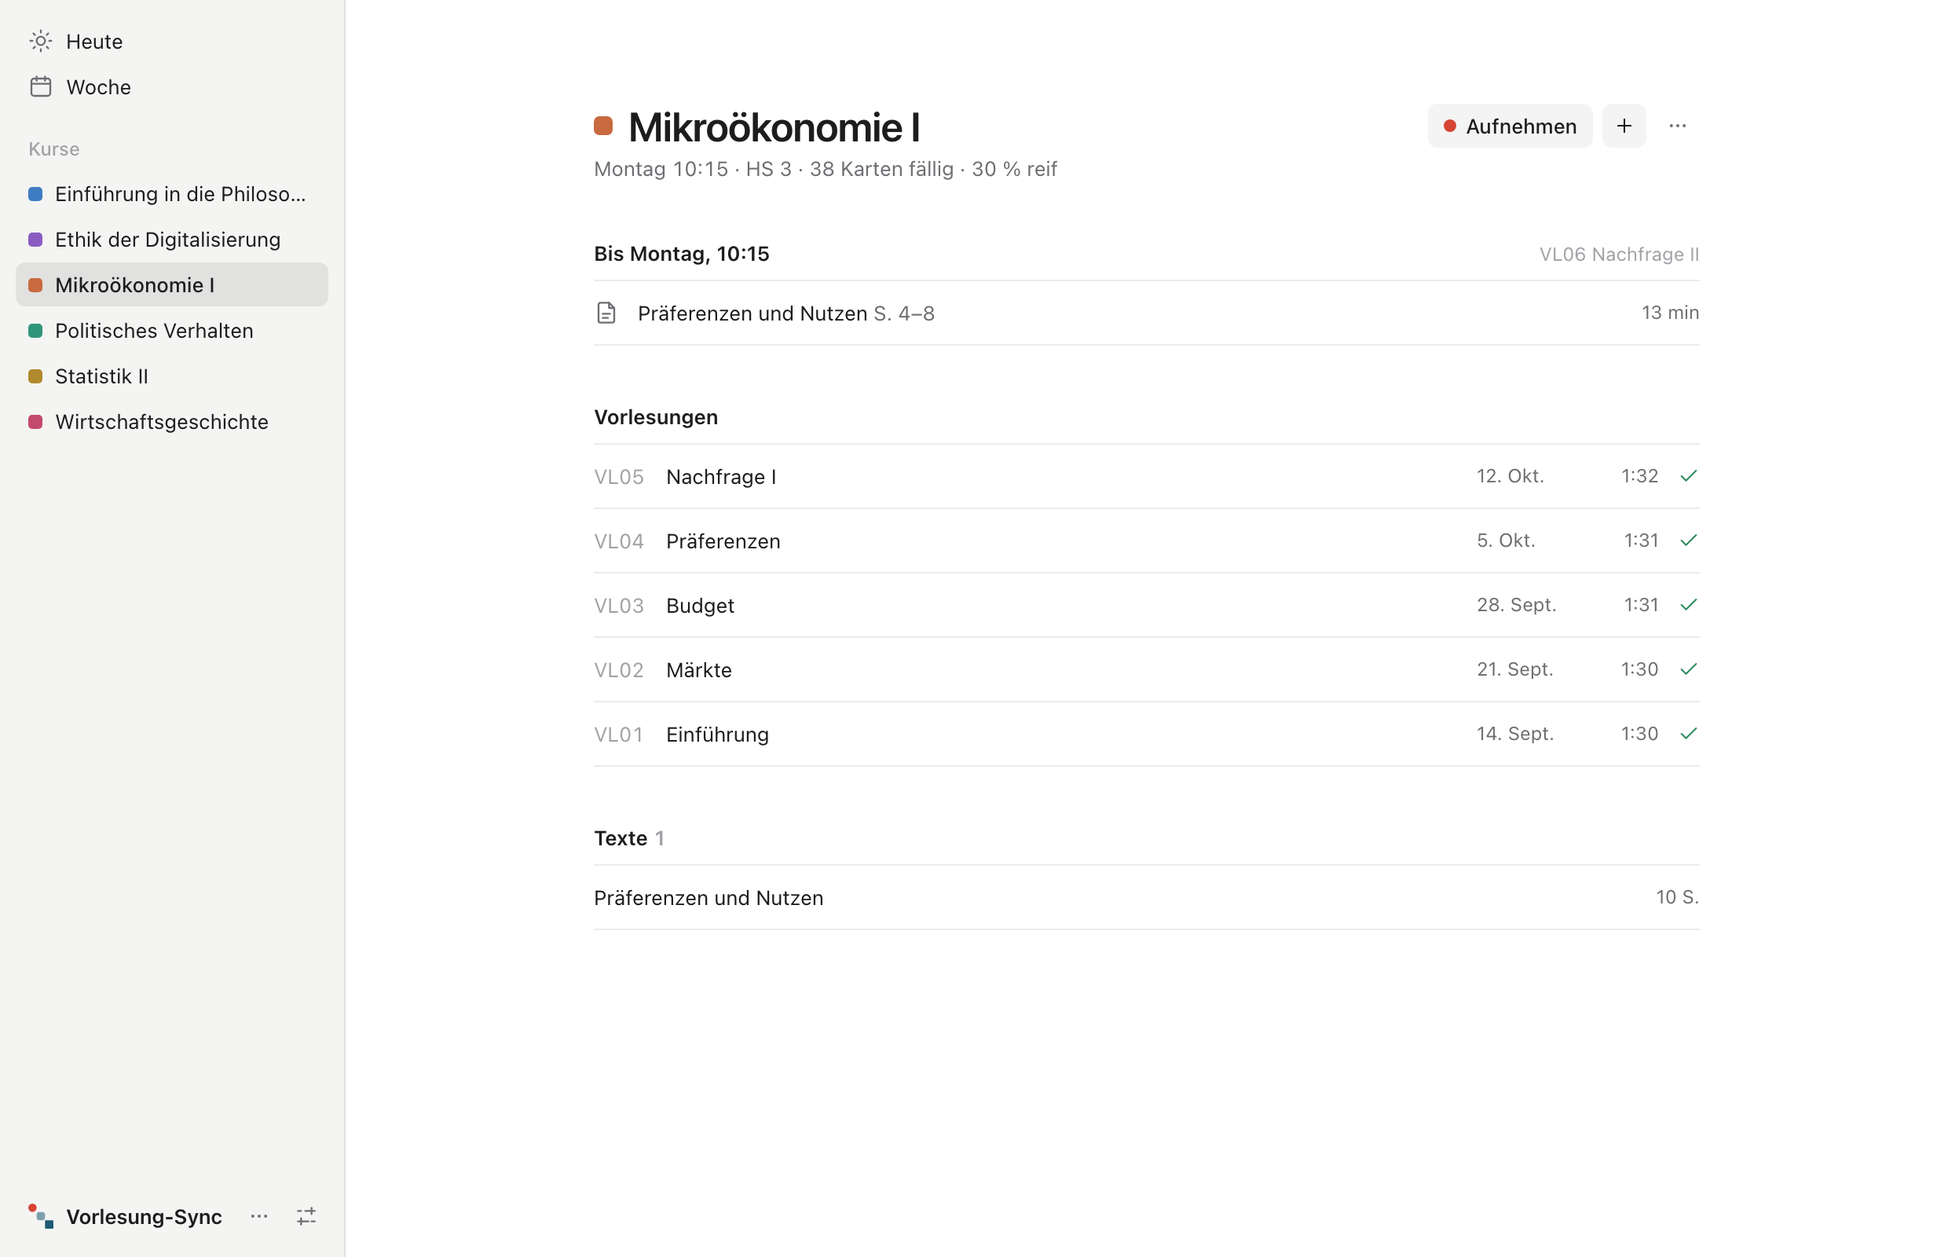
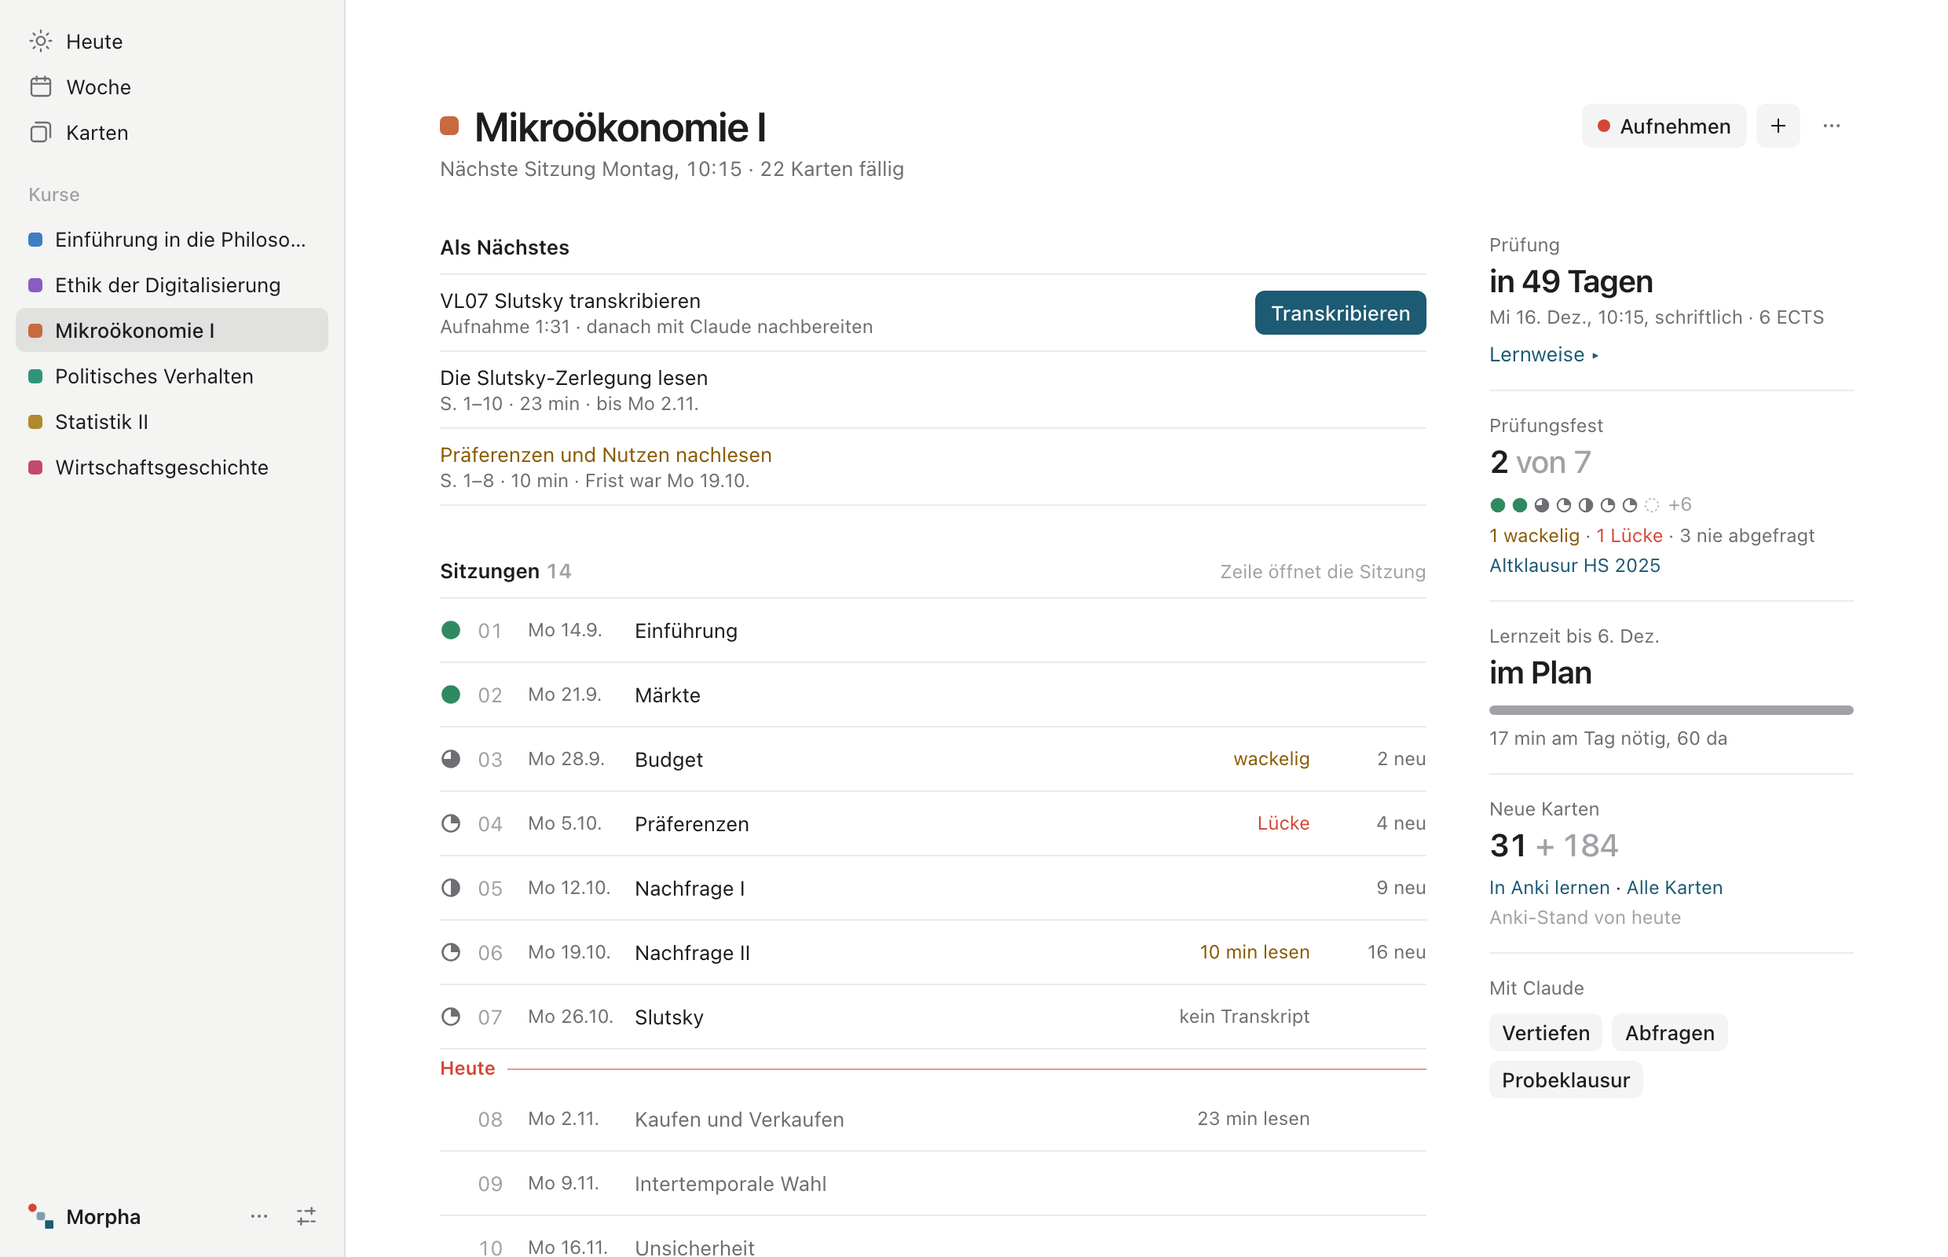
Bedienungsanleitung: neue Kursseite
Die Kursseite hat jetzt rechts eine Spalte mit dem Stand bis zur Prüfung, links „Als
Nächstes“ und eine Liste aller Sitzungen statt Fahrplan, Vorlesungen und Karten. Das Bild
ist neu aus erfundenen Kursen aufgenommen.

diff --git a/README.md b/README.md
@@ -168,7 +168,7 @@ einem Knopf dafür:
   selbst ab: Wiederholen, sobald Anki nichts Fälliges mehr meldet; Lesen, wenn alle Texte
   des Blocks nach ihrer Leseweise gelesen sind (hat ein Block mehrere, steht „Text 2 von 3“
   dabei, und *Lesen* öffnet den ersten offenen); Nachbereiten und Nachholen, wenn Claude den
-  Stand ◑ im Fahrplan einträgt; Abfragen, Probeklausur und Sprechen, wenn Claude dich an dem
+  Stand ◑ der Sitzung einträgt; Abfragen, Probeklausur und Sprechen, wenn Claude dich an dem
   Tag zu dieser Sitzung abgefragt hat; *Woche planen*, sobald der Plan der nächsten Woche
   steht. Unter *Erledigt* steht, wie: „gelesen, 11:58“, „abgefragt, 18:30“, „von Hand“.
   War etwas schon vor dem Plan erledigt, heisst es „schon vorher erledigt“ – Claude plant
@@ -233,42 +233,65 @@ im Hintergrund oder minimiert. Ein- und ausschalten und den Vorlauf ändern unte
 Einstellungen; dort gibt es auch eine Probe-Mitteilung. Beim ersten Mal fragt macOS bzw.
 Windows, ob die App Mitteilungen senden darf.
 
-**Kurse.** Ein Klick auf einen Kurs in der Seitenleiste öffnet die Kursseite. Oben der
-nächste Termin, der Raum und der Anki-Stand, darunter **So lernst du diesen Kurs**: die
-Prüfung (Datum, Raum, Form, Format, wie viele Tage noch), die Lernweise und die Zeit pro
-Woche – aus dem Kursprofil, das du mit Claude anlegst (siehe
-[Ausprobieren](#3-ausprobieren)). Die Zeile **Plan** rechnet nach, ob es bis zur
-Prüfungsphase reicht: offene Lektüre (nach Leseweise, in deinem gemessenen Lesetempo), Nachbereiten bzw.
-Nachholen jeder Sitzung, die noch nicht ◑ ist (auch der kommenden), neue Karten (mit einem
-Kartenbudget aus dem Profil höchstens so viele, wie hineinpassen) und das Wiederholen –
-gegen deine Lernzeit bis dahin, ohne Blockseminar-Tage, geteilt unter den Kursen nach ihrer
-Zeit pro Woche. Daraus die Ampel (*im Plan*, *knapp*, *7 h hinten*), was am Tag nötig wäre
-und wie viele neue Karten nicht ins Budget passen. Die Prüfungsphase selbst bleibt fürs
-Abfragen frei. Was wegfällt, entscheidest du mit Claude (Prompt *Woche planen*, Werkzeug
-`get_plan`). Die Zeile **Prüfungsreife** zählt, wie viele Sitzungen schon ● prüfungsfest
-stehen, welche beim letzten Abfragen gewackelt haben oder eine Lücke zeigten (mit Namen)
-und welche du nie abgefragt hast; dazu, wann zuletzt, und deine Altklausuren zum Öffnen.
-Ohne Profil steht dort nur die Prüfung aus dem
-Stundenplan (Hinweise wie „PRÜFUNG: Mikroökonomie I“). Die Zeile **Mit Claude** kopiert
-einen Ablauf für den ganzen Kurs – Vertiefen, Abfragen, Probeklausur oder Sprechen, dazu
-die Blöcke aus deinem Profil –, du fügst ihn in Claude ein. Dann, was **bis zur nächsten
-Sitzung** zu lesen ist, und der **Fahrplan**: jede Sitzung bis zur Prüfung mit Thema, Texten,
-Unterdeck und Stand (○ offen, ◔ gehört, ◑ verstanden, ◕ im Gedächtnis, ● prüfungsfest),
-darüber die Phasen Mitlaufen, Festigen und Prüfungsphase mit der Heute-Marke und den
-Blockseminar-Wochenenden. ◔ kommt von selbst mit der Aufnahme, ◕, wenn das Unterdeck kaum
-noch neue Karten hat und gehalten ist; ◑ trägt Claude nach dem Nachbereiten ein. Nach
-*Abfragen*, *Probeklausur* oder *Sprechen* trägt Claude pro Sitzung ein, wie es sass –
-sicher, wackelig oder Lücke. ● heisst: die letzte Abfrage war sicher; wackelt eine spätere,
-ist das ● wieder weg und in der Zeile steht *wackelig* bzw. *Lücke*. Eine Zeile klappt auf:
-Aufnahme, Texte und Unterdeck zum Öffnen, die Abfragen mit Datum, den Stand von Hand setzen
-(noch einmal anklicken nimmt ihn zurück) und *Mit Claude nachbereiten* oder *Abfragen*. Darunter die **Vorlesungen** (✓ grün = transkribiert), mit Anki-Deck die **Karten**
-nach Unterdeck (siehe [Karten und Lernfortschritt](#karten-und-lernfortschritt)) und die
-**Texte** des Kurses. Eine alte Prüfung markierst du dort mit ⋯ › *Altklausur*: Sie steht
-dann unter Prüfungsreife, Claude stellt Fragen und Probeklausuren in ihrem Stil, und ⋯ ›
-*Mit Claude als Probeklausur* kopiert den Ablauf, um sie selbst zu schreiben und
-korrigieren zu lassen. Ältere und erledigte Aufgaben sind eingeklappt.
+**Kurse.** Ein Klick auf einen Kurs in der Seitenleiste öffnet die Kursseite. Oben die
+nächste Sitzung und wie viele Karten fällig sind. Darunter links, was zu tun ist und wo jede
+Sitzung steht, rechts in einer schmalen Spalte der Stand bis zur Prüfung. Ist das Fenster
+schmal, steht die Spalte oben.
 
-![Kursseite: Lektüre bis Montag, Vorlesungen mit Datum und Dauer, Texte](bilder/kurs.png)
+**Die Spalte rechts** zeigt nur, was es für den Kurs gibt:
+
+- **Prüfung:** „in 49 Tagen“, darunter Datum, Form und ECTS. Ein Klick öffnet *Prüfung und
+  Lernweise*; „Lernweise ▸“ klappt auf, wie du den Kurs lernst (aus dem Kursprofil, das du
+  mit Claude anlegst – siehe [Ausprobieren](#3-ausprobieren)). Ohne Profil gilt die Prüfung
+  aus dem Stundenplan (Hinweise wie „PRÜFUNG: Mikroökonomie I“).
+- **Prüfungsfest:** wie viele Sitzungen schon ● prüfungsfest stehen („2 von 7“), ein Zeichen
+  pro vergangener Sitzung, darunter, welche beim letzten Abfragen gewackelt haben oder eine
+  Lücke zeigten und welche du nie abgefragt hast. Deine Altklausuren stehen dort zum Öffnen.
+- **Lernzeit bis zur Prüfungsphase:** ob es reicht – *im Plan*, *knapp* oder *7 h hinten* –,
+  ein Balken Zeit gegen Arbeit und wie viele Minuten am Tag nötig sind. Ein Klick zeigt die
+  Rechnung: offene Lektüre (nach Leseweise, in deinem gemessenen Lesetempo), Nachbereiten bzw.
+  Nachholen jeder Sitzung, die noch nicht ◑ ist (auch der kommenden), neue Karten (mit einem
+  Kartenbudget aus dem Profil höchstens so viele, wie hineinpassen), Wiederholen und die Tage
+  ohne Lernzeit (Blockseminare). Gerechnet wird mit deiner Lernzeit bis dahin, geteilt unter
+  den Kursen nach ihrer Zeit pro Woche; die Prüfungsphase selbst bleibt fürs Abfragen frei.
+  Was wegfällt, entscheidest du mit Claude (Prompt *Woche planen*).
+- **Neue Karten:** wie viele neue im Kursdeck warten und wie viele aus den kommenden
+  Sitzungen noch dazukommen. Passen sie nicht ins Budget, steht es da, mit **Mit Claude
+  auswählen**. Darunter „In Anki lernen“, „Alle Karten“ und wie alt der Anki-Stand ist.
+- **Mit Claude:** kopiert einen Ablauf für den ganzen Kurs – Vertiefen, Abfragen,
+  Probeklausur oder Sprechen, dazu die Blöcke aus deinem Profil –, du fügst ihn in Claude ein.
+
+**Als Nächstes** zeigt bis zu drei Dinge, das wichtigste mit Knopf: eine laufende oder
+unterbrochene Aufnahme, die letzte Aufnahme ohne Transkript („Transkribieren“), fehlende
+Folien, die Lektüre bis zur nächsten Sitzung, Überfälliges, fällige Karten und verpasste
+Sitzungen zum Nachholen. Ist nichts offen, steht da „Bis Montag ist nichts offen“.
+
+**Sitzungen** ist eine Liste aller Sitzungen bis zur Prüfung, jede genau einmal: vorn der
+Stand (○ offen, ◔ gehört, ◑ verstanden, ◕ im Gedächtnis, ● prüfungsfest – die Bedeutung
+zeigt der Tooltip), Nummer, Datum, Thema, rechts höchstens ein Hinweis, was fehlt (*läuft*,
+*ohne Aufnahme*, *Folien fehlen*, *kein Transkript*, *wackelig* oder *Lücke* aus der letzten
+Abfrage, „23 min lesen“, „✓ gelesen“) und ganz rechts die neuen Karten im Unterdeck der
+Sitzung. Eine rote Linie markiert heute, eine Trennzeile den Beginn von Festigen und
+Prüfungsphase, am Ende steht die Prüfung. ◔ kommt von selbst mit der Aufnahme, ◕, wenn das
+Unterdeck kaum noch neue Karten hat und gehalten ist; ◑ trägt Claude nach dem Nachbereiten
+ein. Nach *Abfragen*, *Probeklausur* oder *Sprechen* trägt Claude pro Sitzung ein, wie es
+sass – sicher, wackelig oder Lücke. ● heisst: die letzte Abfrage war sicher; wackelt eine
+spätere, ist das ● wieder weg.
+
+Ein Klick klappt die Sitzung auf: die Aufnahme (⋯ mit *Bearbeiten* und *Löschen*), die Texte
+(⋯ mit Leseweise, *Als gelesen markieren*, *Aufgabe entfernen*), das Unterdeck mit Balken,
+die Abfragen mit Datum, den Stand von Hand setzen (noch einmal anklicken nimmt ihn zurück)
+und *Mit Claude nachbereiten* oder *Abfragen*. Eine Aufnahme, die zu keinem Termin gehört,
+steht als eigene Zeile an ihrem Datum; ein Klick öffnet sie.
+
+Hat ein Kurs keinen Stundenplan und keine Prüfung, zeigt *Sitzungen* einfach die
+Vorlesungen, die neueste oben, und die Spalte rechts nur Karten und *Mit Claude*. Ganz unten
+eingeklappt die **Texte** des Kurses und **Älteres** (gelesene Aufgaben). Eine alte Prüfung
+markierst du bei den Texten mit ⋯ › *Altklausur*: Sie steht dann unter Prüfungsfest, Claude
+stellt Fragen und Probeklausuren in ihrem Stil, und ⋯ › *Mit Claude als Probeklausur*
+kopiert den Ablauf, um sie selbst zu schreiben und korrigieren zu lassen.
+
+![Kursseite: links „Als Nächstes“ und die Sitzungen mit ihrem Stand, rechts Prüfung, prüfungsfest, Lernzeit und neue Karten](bilder/kurs.png)
 
 - **Aufnehmen** legt die nächste Vorlesung an (höchste VL-Nummer + 1) und nimmt sofort auf.
 - **+** legt eine Vorlesung (mit oder ohne PDF, PowerPoint vorher als PDF exportieren),
@@ -279,8 +302,8 @@ korrigieren zu lassen. Ältere und erledigte Aufgaben sind eingeklappt.
   Archiv der Seitenleiste und zählt bei „offen“ nicht mehr mit – fürs nächste Semester),
   *Entfernen* (die Vorlesungen bleiben, nur ohne Kurs). Heisst ein Kurs nach dem Umbenennen
   wie ein anderer, werden beide zusammengelegt.
-- Eine Zeile anklicken öffnet die Vorlesung bzw. den Text. Fährt man darüber, erscheint
-  rechts ⋯ mit *Bearbeiten* (Titel und Kurs), *Umbenennen*, *Löschen*.
+- Eine Sitzung anklicken klappt sie auf, einen Text anklicken öffnet ihn. Fährt man über
+  eine Zeile, erscheint rechts ⋯ mit *Bearbeiten* (Titel und Kurs), *Umbenennen*, *Löschen*.
 - **Plan & Ordner:** der Ordner, in dem die Folien des Kurses landen, und Wochentermine
   für Kurse, die nicht im Stundenplan stehen. Mit Kursordner zeigt der Recorder die
   neuesten PDFs daraus (bis zwei Ebenen tief); ein Klick hängt sie an – bewusst nicht
@@ -401,7 +424,7 @@ Folie.
 
 **Pause und später weiter.** „Pause“ hält die Aufnahme an. „Später weiter“ sichert alles
 und beendet die Sitzung – die App darf zu, der Rechner neu starten. Die Vorlesung steht
-dann unter Heute bei *Jetzt* (und auf der Kursseite als *pausiert*), „Fortsetzen“ macht an derselben Folie und Uhrzeit
+dann unter Heute bei *Jetzt* (und auf der Kursseite als *unterbrochen*), „Fortsetzen“ macht an derselben Folie und Uhrzeit
 weiter. Das geht auch nach einem Absturz (*Aufnahme unterbrochen*) und über „Weiter
 aufnehmen“ (⋯ in der Auswertung) nach einem Stop (ein vorhandenes Transkript wird dann
 verworfen). Gespeichert wird laufend alle paar Sekunden – ein Absturz kostet Sekunden,
@@ -518,10 +541,10 @@ Mitschnitte nur weitergeben, wo Aufnahmen erlaubt sind.
 
 ## Lektüre und Reader
 
-Pflichttexte lesen, markieren und die Fristen im Blick haben. Auf der Kursseite steht oben,
-was bis zur nächsten Sitzung zu lesen ist, mit Restzeit und bei angefangenen Texten einem
-kurzen Balken, wie viel schon gelesen ist (auch unter Heute), darunter die Texte; unter Heute
-zählt die Lektüre bei „offen“ mit. Was du heute fertig gelesen hast, bleibt bis Mitternacht
+Pflichttexte lesen, markieren und die Fristen im Blick haben. Auf der Kursseite steht unter
+*Als Nächstes*, was bis zur nächsten Sitzung zu lesen ist, mit Restzeit; jede Sitzung zeigt
+ihre offene Lektüre („23 min lesen“), aufgeklappt mit den Texten. Unter Heute steht sie mit
+einem kurzen Balken, wie viel schon gelesen ist, und zählt bei „offen“ mit. Was du heute fertig gelesen hast, bleibt bis Mitternacht
 abgehakt am Ende der Liste stehen, zum schnellen Nachschlagen („Öffnen“) – es zählt nicht
 mehr mit und rutscht danach im Kurs unter „Älteres“.
 
@@ -543,7 +566,7 @@ mehr mit und rutscht danach im Kurs unter „Älteres“.
 - **Leseweise:** ⋯ an einer Aufgabe → „Gründlich lesen“, „Gezielt lesen (⅓)“, „Nur
   Kernaussagen lesen“ oder „Auslassen“. Ohne eigene Wahl gilt die Vorgabe des Kurses aus
   dem Kursprofil (im Menü mit „· Kurs“), sonst gründlich. Danach richten sich Restzeit,
-  „gelesen“ und die Zeile Plan; „Mit Claude lesen“ nimmt die Leseweise mit. Passt die
+  „gelesen“ und die Lernzeit auf der Kursseite; „Mit Claude lesen“ nimmt die Leseweise mit. Passt die
   Lektüre nicht in die Woche, schlägt Claude in der Wochenplanung Leseweisen vor und setzt
   sie nach deinem Okay.
   - *Gründlich:* alle Seiten.
@@ -674,8 +697,8 @@ Restzeit = ungelesene Seiten × Tempo.
 
 Fällige Anki-Karten zählen unter Heute bei „offen“ mit (mit dem Alter des Stands), das Modul
 *Fortschritt je Kurs* zeigt pro Kurs die Ampel bis zur Prüfung (*im Plan*, *knapp* oder
-*3 h hinten*), die fälligen Karten und den Anteil reifer, die
-Kursseite beides in ihrer Kopfzeile. Die Zahlen meldet das Morpha-Add-on in Anki von
+*3 h hinten*), die fälligen Karten und den Anteil reifer; die
+Kursseite nennt die fälligen oben und die Ampel in der Spalte rechts. Die Zahlen meldet das Morpha-Add-on in Anki von
 selbst – nach dem Öffnen, nach dem Synchronisieren, nach dem Lernen und beim Schliessen
 (siehe [Anki einrichten](#2-anki-einrichten-optional)). Gezählt wird das Deck, das zum Kurs
 gehört, samt Unterdecks: auf der Kursseite ⋯ → „Anki-Deck …“.
@@ -689,11 +712,12 @@ dazugekommen sind und wie viele du gelernt hast; kommen mehr dazu, als du lernst
 Satz, in welchen Kursen vor allem. Das alles geht auch bei geschlossenem Anki, es ist der
 Stand der letzten Meldung (wie alt, steht unten). „In Anki lernen“ öffnet Anki.
 
-Auf der **Kursseite** stehen unter den Vorlesungen dieselben Unterdecks als Abschnitt
-*Karten*, mit „In Anki lernen“ für das Deck des Kurses.
+Auf der **Kursseite** steht an jeder Sitzung, wie viele neue Karten ihr Unterdeck hat;
+aufgeklappt zeigt die Sitzung es mit Balken. Rechts unter *Neue Karten* „In Anki lernen“
+für das Deck des Kurses.
 
-**Die Karten eines Unterdecks.** Ein Klick auf ein Unterdeck (in *Karten* oder auf der
-Kursseite) zeigt seine Karten, live aus Anki – dafür muss Anki offen sein. Oben filterst du
+**Die Karten eines Unterdecks.** Ein Klick auf ein Unterdeck (in *Karten* oder in einer
+aufgeklappten Sitzung der Kursseite) zeigt seine Karten, live aus Anki – dafür muss Anki offen sein. Oben filterst du
 nach *Alle*, *Fällig*, *Neu* und *Gelernt*; jede Zeile zeigt den Anfang der Vorderseite
 (Lücken hervorgehoben), ● fällig oder ○ neu und rechts den Stand, z.B. „jung · 8 T“. Hat die
 Karte eine Quelle in Morpha, steht sie daneben – ein Klick öffnet die Vorlesung bzw. den Text
@@ -707,7 +731,7 @@ Anki daran: Das Morpha-Add-on setzt es als Limit „Dieser Stapel“ des Kursdec
 von Anki und sobald es sich in Morpha ändert. Es gilt, wenn du das Kursdeck lernst; ein
 Unterdeck allein hat seine eigenen Limits. Ändern lässt du es mit Claude („Setz das
 Kartenbudget für Mikro auf 10“), nicht in Anki – dort setzt Morpha es beim nächsten Öffnen
-zurück. Die Zeile Plan auf der Kursseite rechnet mit demselben Budget.
+zurück. *Lernzeit* und *Neue Karten* auf der Kursseite rechnen mit demselben Budget.
 
 **Gefilterte Decks.** Für einen Block legt Claude auf Zuruf ein gefiltertes Deck in Anki an,
 etwa „Mach mir ein Deck mit allen Karten zu Downs“ → *Morpha::Downs*. *Vertiefen* und
@@ -907,9 +931,9 @@ Morpha, in Claude Code als Befehl:
 | Lesen | `/mcp__morpha__lesen` | einen Text gründlich (zusammen im Reader: Claude sieht Seite und Auswahl, beantwortet deine Fragen, klärt ?-Stellen, schreibt die Antworten an den Rand), gezielt (nur die Seiten, die zur Sitzung passen) oder nur über die Kernaussagen (fehlen sie, schreibt Claude sie und einen Überblick; du liest sie am Rand) |
 | Vertiefen | `/mcp__morpha__vertiefen` | eine Person, Schule oder Theorie festigen: du erklärst, Claude prüft mit Beleg, ordnet ein und stellt Prüfungsfragen, auf Wunsch mit einem gefilterten Deck zum Thema in Anki |
 | Rechnen | `/mcp__morpha__rechnen` | ein Thema rechnend erarbeiten: du rechnest auf Papier, Claude prüft nur den Ansatz |
-| Sprechen | `/mcp__morpha__sprechen` | mündliche Prüfung üben: du sprichst zwei Minuten frei, Claude fragt als Prüfer nach (mit Einwänden, Stichwort statt Antwort); zum Schluss schreibst du drei Zeilen Position – Einwand – Antwort, und im Fahrplan steht, wie jede Sitzung sass |
-| Abfragen | `/mcp__morpha__abfragen` | Prüfungsfragen aus deinen ★-Stellen, Begriffen und dem, was betont wurde (im Stil deiner Altklausuren), gemischt über die Sitzungen, Wackeliges zuerst; bei Fehlern erst ein Hinweis, dann die Erklärung. Danach steht im Fahrplan pro Sitzung sicher, wackelig oder Lücke, und Claude sagt, wann sie wieder dran ist; auf Wunsch ein gefiltertes Deck fürs Wackelige |
-| Probeklausur | `/mcp__morpha__probeklausur` | im Format der echten Prüfung, mit Punkten und Korrektur – zusammengestellt im Stil deiner Altklausuren oder eine Altklausur selbst geschrieben; danach steht im Fahrplan, wie jede Sitzung sass |
+| Sprechen | `/mcp__morpha__sprechen` | mündliche Prüfung üben: du sprichst zwei Minuten frei, Claude fragt als Prüfer nach (mit Einwänden, Stichwort statt Antwort); zum Schluss schreibst du drei Zeilen Position – Einwand – Antwort, und auf der Kursseite steht, wie jede Sitzung sass |
+| Abfragen | `/mcp__morpha__abfragen` | Prüfungsfragen aus deinen ★-Stellen, Begriffen und dem, was betont wurde (im Stil deiner Altklausuren), gemischt über die Sitzungen, Wackeliges zuerst; bei Fehlern erst ein Hinweis, dann die Erklärung. Danach steht auf der Kursseite pro Sitzung sicher, wackelig oder Lücke, und Claude sagt, wann sie wieder dran ist; auf Wunsch ein gefiltertes Deck fürs Wackelige |
+| Probeklausur | `/mcp__morpha__probeklausur` | im Format der echten Prüfung, mit Punkten und Korrektur – zusammengestellt im Stil deiner Altklausuren oder eine Altklausur selbst geschrieben; danach steht auf der Kursseite, wie jede Sitzung sass |
 | Woche planen | `/mcp__morpha__woche` | Rückblick auf die Woche, dann ein Plan aus Blöcken innerhalb deiner Lernzeit – ab acht Wochen vor einer Prüfung mit einem Abfragen-Block pro Woche (mündlich: zweimal Sprechen), in den letzten zehn Tagen nach festem Ablauf. Nach deinem Okay steht er in Morpha auf Heute und in der Woche |
 | Zusammenfassung | `/mcp__morpha__zusammenfassung` | Kernaussagen, Ablauf mit Folien, Begriffe, Prüfungsrelevantes und Offenes – erst nach deinem Okay in die App |
 | Syllabus | `/mcp__morpha__syllabus` | Syllabus lesen, Lese-Aufgaben mit Fristen vorschlagen, nach Bestätigung anlegen |
